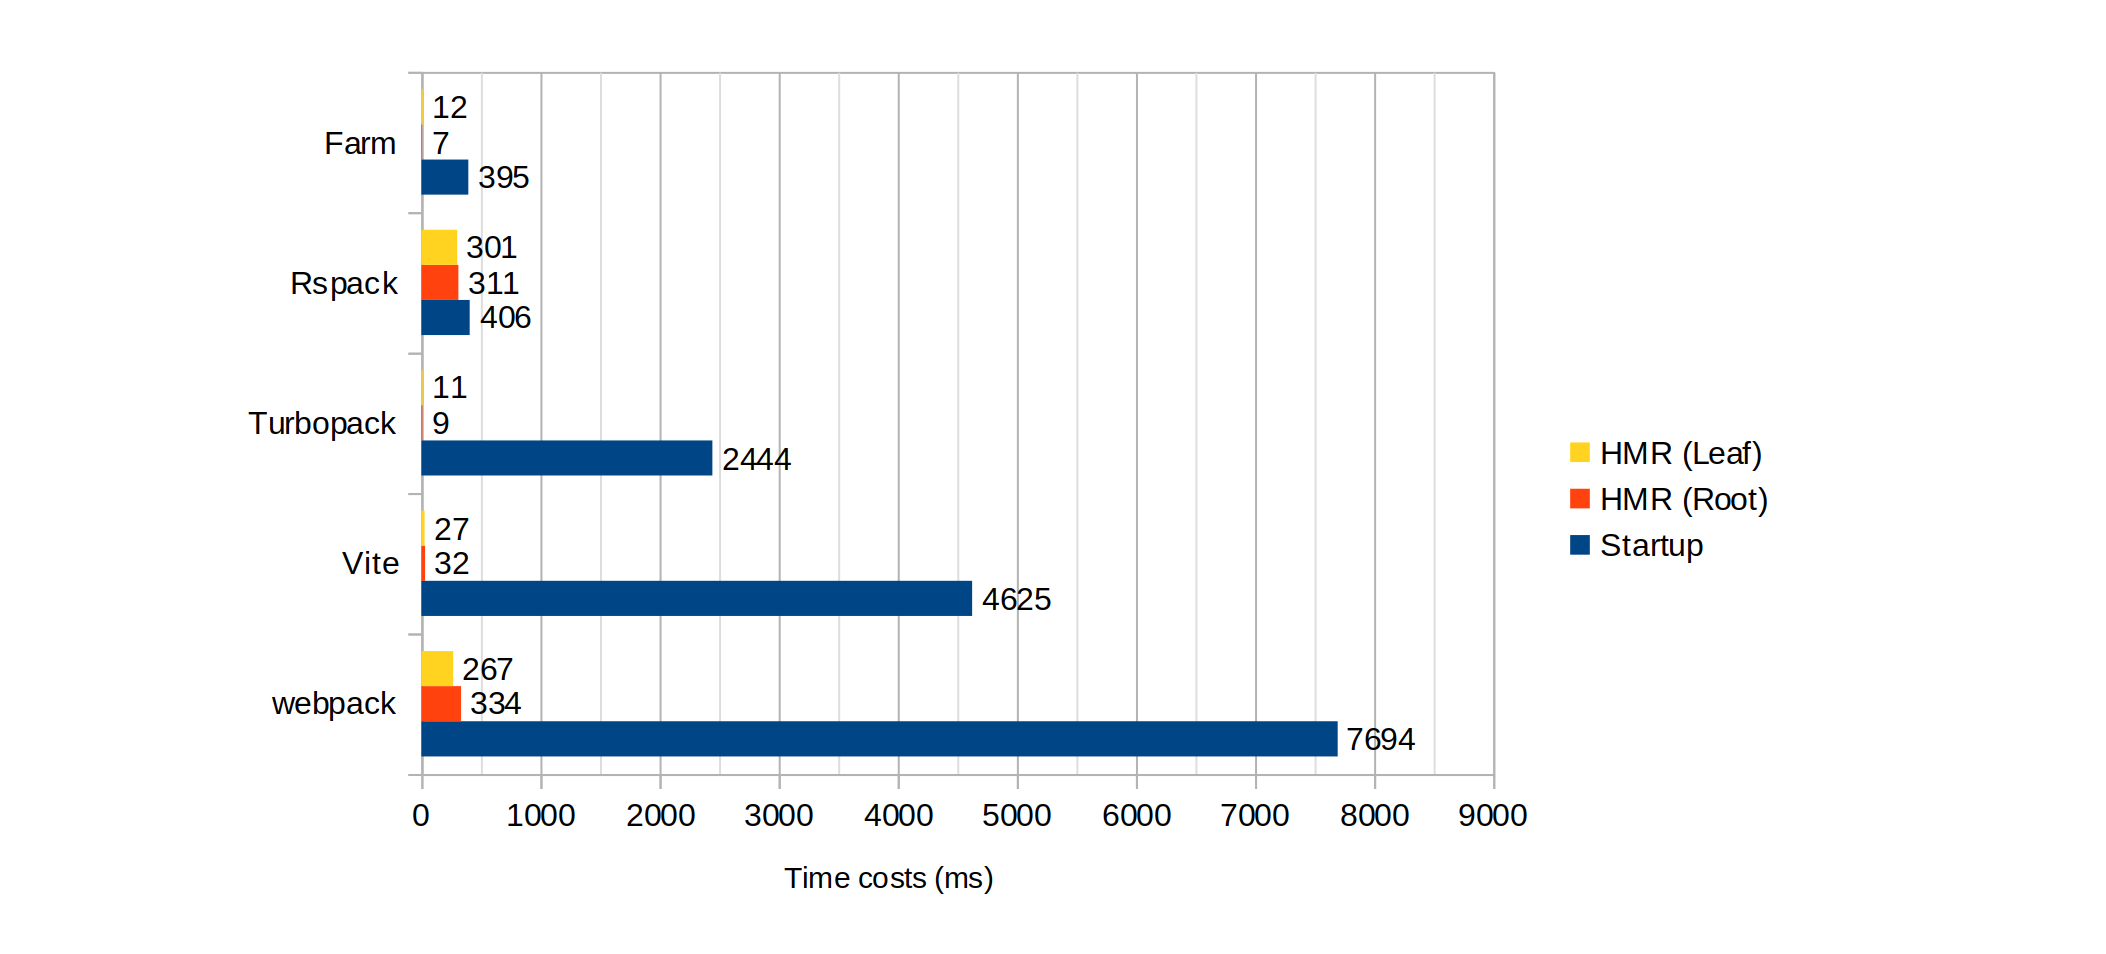
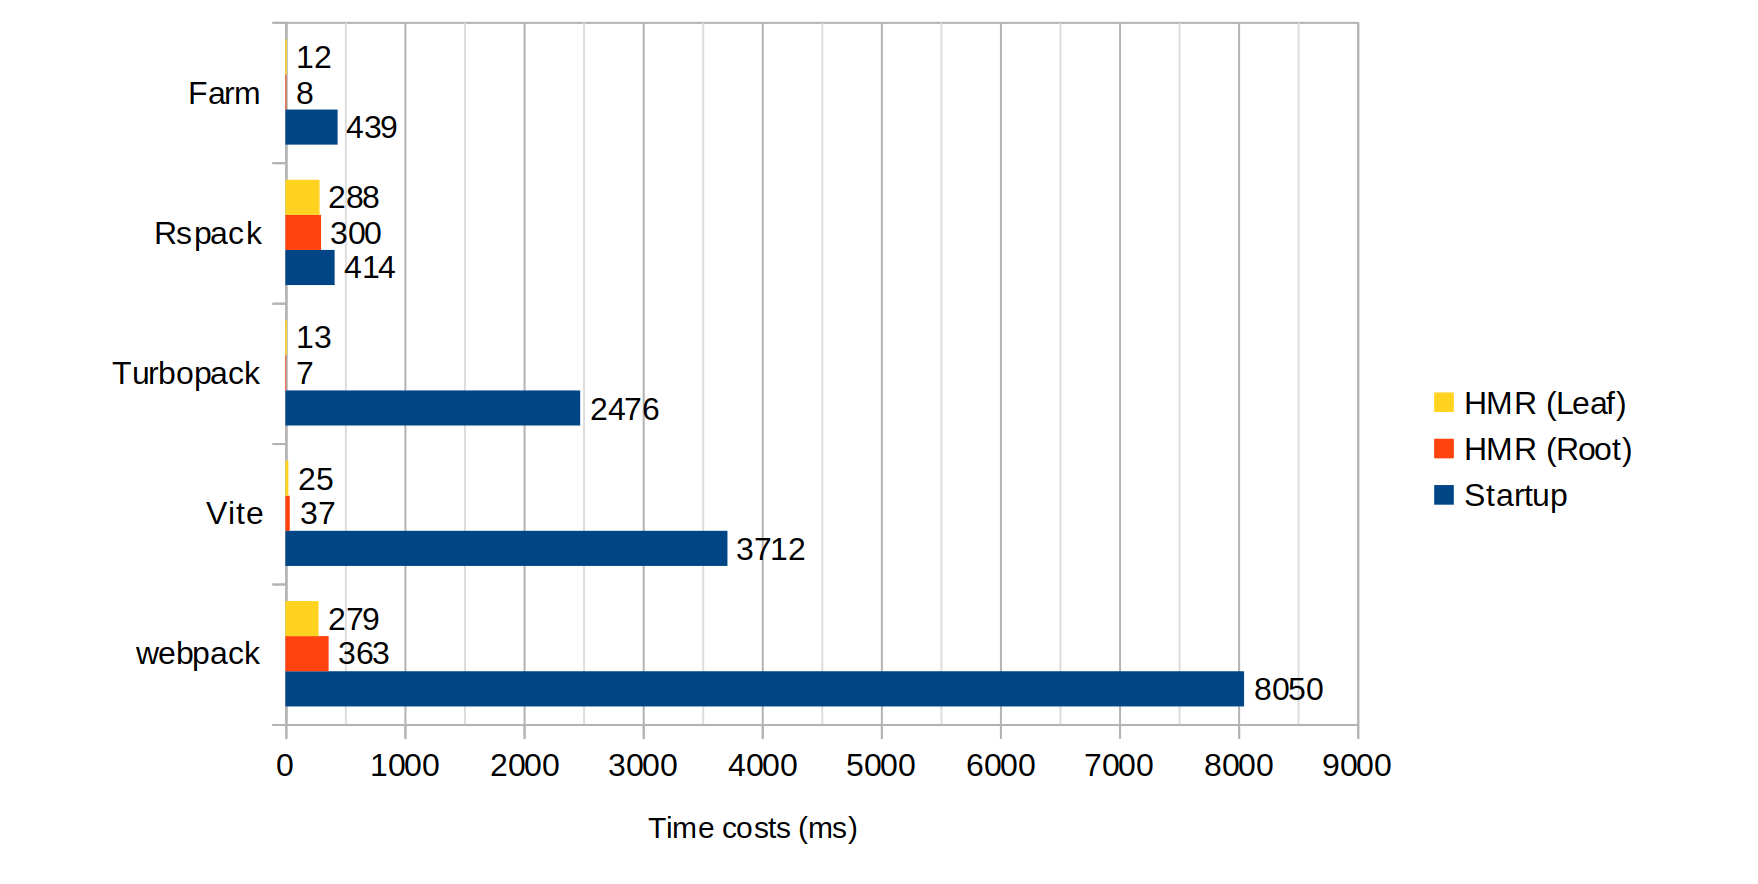
chore: update benchmark

diff --git a/webpack.config.js b/webpack.config.js
@@ -50,5 +50,4 @@ module.exports = {
     }),
     new ReactRefreshWebpackPlugin()
   ],
-  devtool: false
 }

diff --git a/rspack.config.js b/rspack.config.js
@@ -21,5 +21,4 @@ module.exports = {
 			}
 		]
 	},
-	devtool: false,
 };

diff --git a/README.md b/README.md
@@ -4,13 +4,13 @@ Benchmarks for Farm, Webpack, Vite, Rspack and Turbopack. (Without sourcemap)
 
 |                     | **Startup**  | **HMR (Root)**  | **HMR (Leaf)**  |
 | ------------------- | ------- | ----- | --- |
-| Webpack      | 7814ms   | 290ms | 232ms |
-| Rspack   | 383ms | 272ms | 260ms |
-| Farm    | 390ms | 6ms | 13ms  |
+| Webpack      | 8050ms   | 363ms | 279ms |
+| Vite      | 3712ms   | 37ms | 25ms |
+| Turbopack   | 2476ms | 7ms | 13ms |
+| Rspack   | 414ms | 300ms | 288ms |
+| Farm    | 439ms | 8ms | 12ms  |
 
-As Turbopack and Vite does not support disable sourcemap, and Farm does not support sourcemap for now. We do not compare with Turbopack and Vite, we will do the benchmark later when Farm support sourcemap.
-
-![xx](./assets/benchmark-new.png)
+![xx](./assets/benchmark.png)
 
 
 Run benchmarks:
@@ -21,21 +21,21 @@ You will see something like:
 ```txt
 bright@bright-MS-7D17:~/opensource/performance-compare$ node benchmark.mjs
 
-Rspack  startup time: 406ms
-Turbopack  startup time: 2444.64892578125ms
-Webpack  startup time: 7694ms
-Vite  startup time: 4625ms
-Farm  startup time: 395ms
+Rspack  startup time: 417ms
+Turbopack  startup time: 2440.673095703125ms
+Webpack  startup time: 7968ms
+Vite  startup time: 3712ms
+Farm  startup time: 430ms
+Turbopack  Root HMR time: 7ms
 Farm  Root HMR time: 7ms
-Turbopack  Root HMR time: 9ms
-Vite  Root HMR time: 32ms
-Rspack  Root HMR time: 311ms
-Webpack  Root HMR time: 334ms
+Vite  Root HMR time: 42ms
+Rspack  Root HMR time: 298ms
+Webpack  Root HMR time: 451ms
+Farm  Leaf HMR time: 10ms
 Turbopack  Leaf HMR time: 11ms
-Farm  Leaf HMR time: 12ms
-Vite  Leaf HMR time: 27ms
-Webpack  Leaf HMR time: 267ms
-Rspack  Leaf HMR time: 301ms
+Vite  Leaf HMR time: 22ms
+Webpack  Leaf HMR time: 284ms
+Rspack  Leaf HMR time: 303ms
 ```
 
 If you want to start the project with the specified tool, try:
